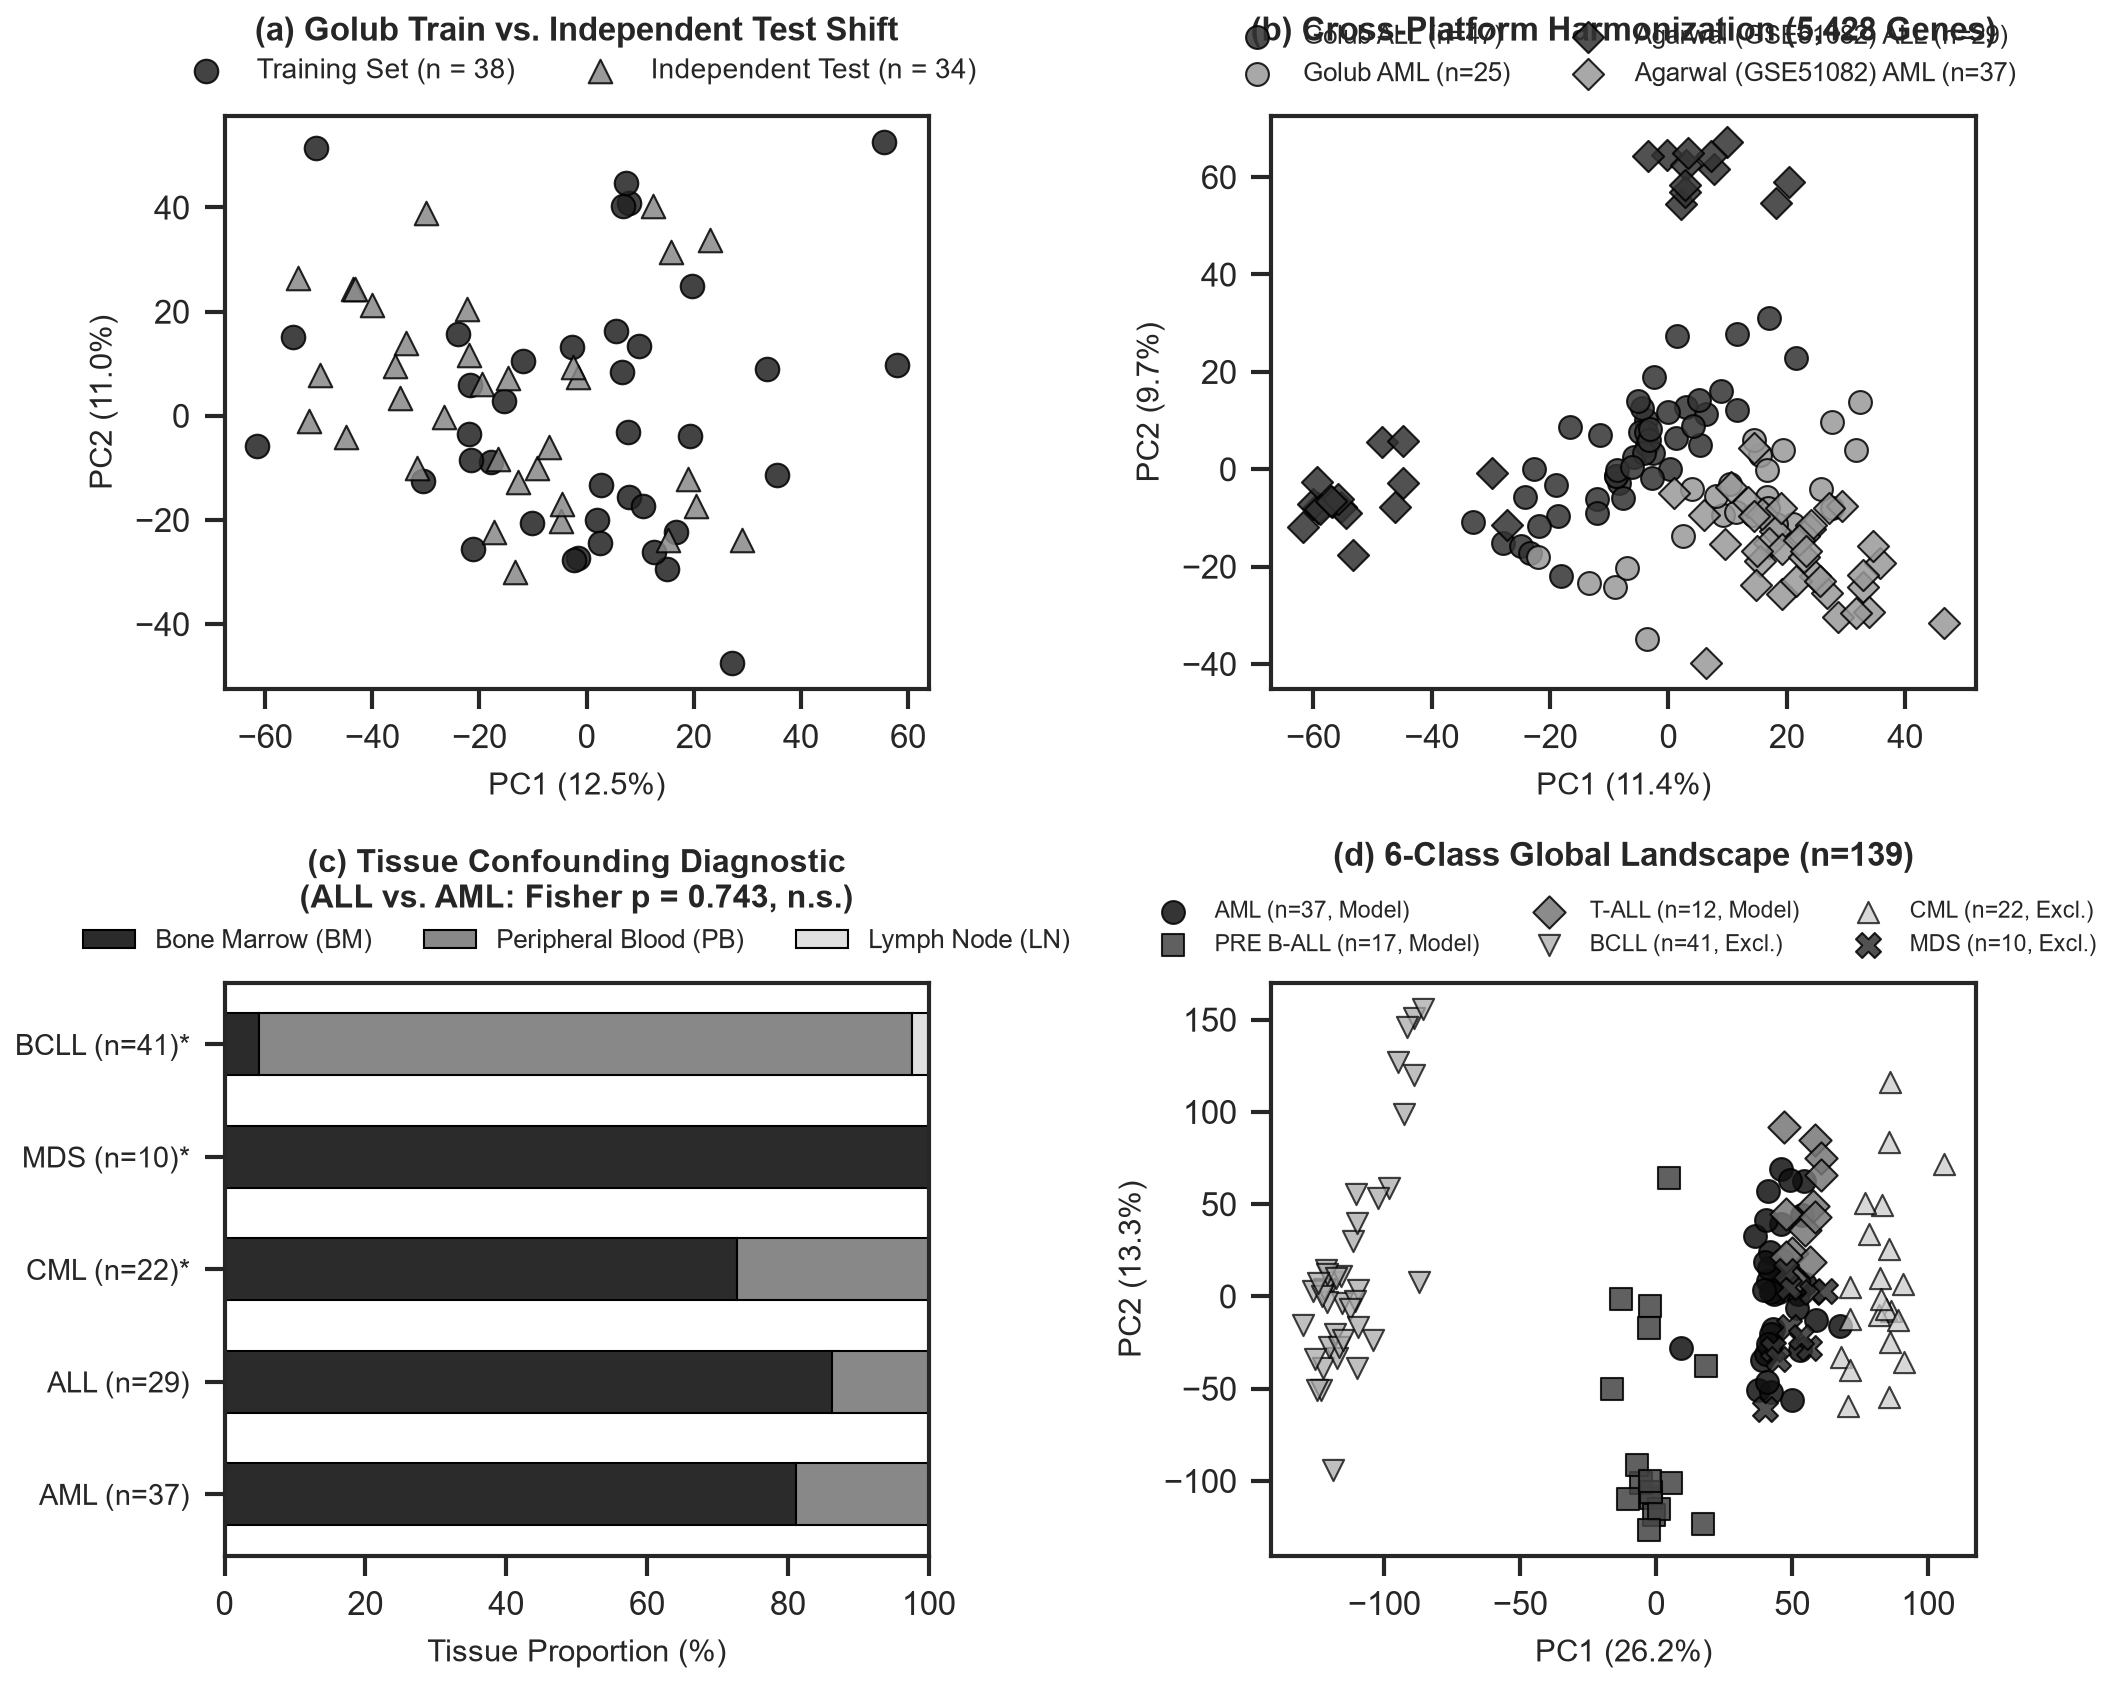
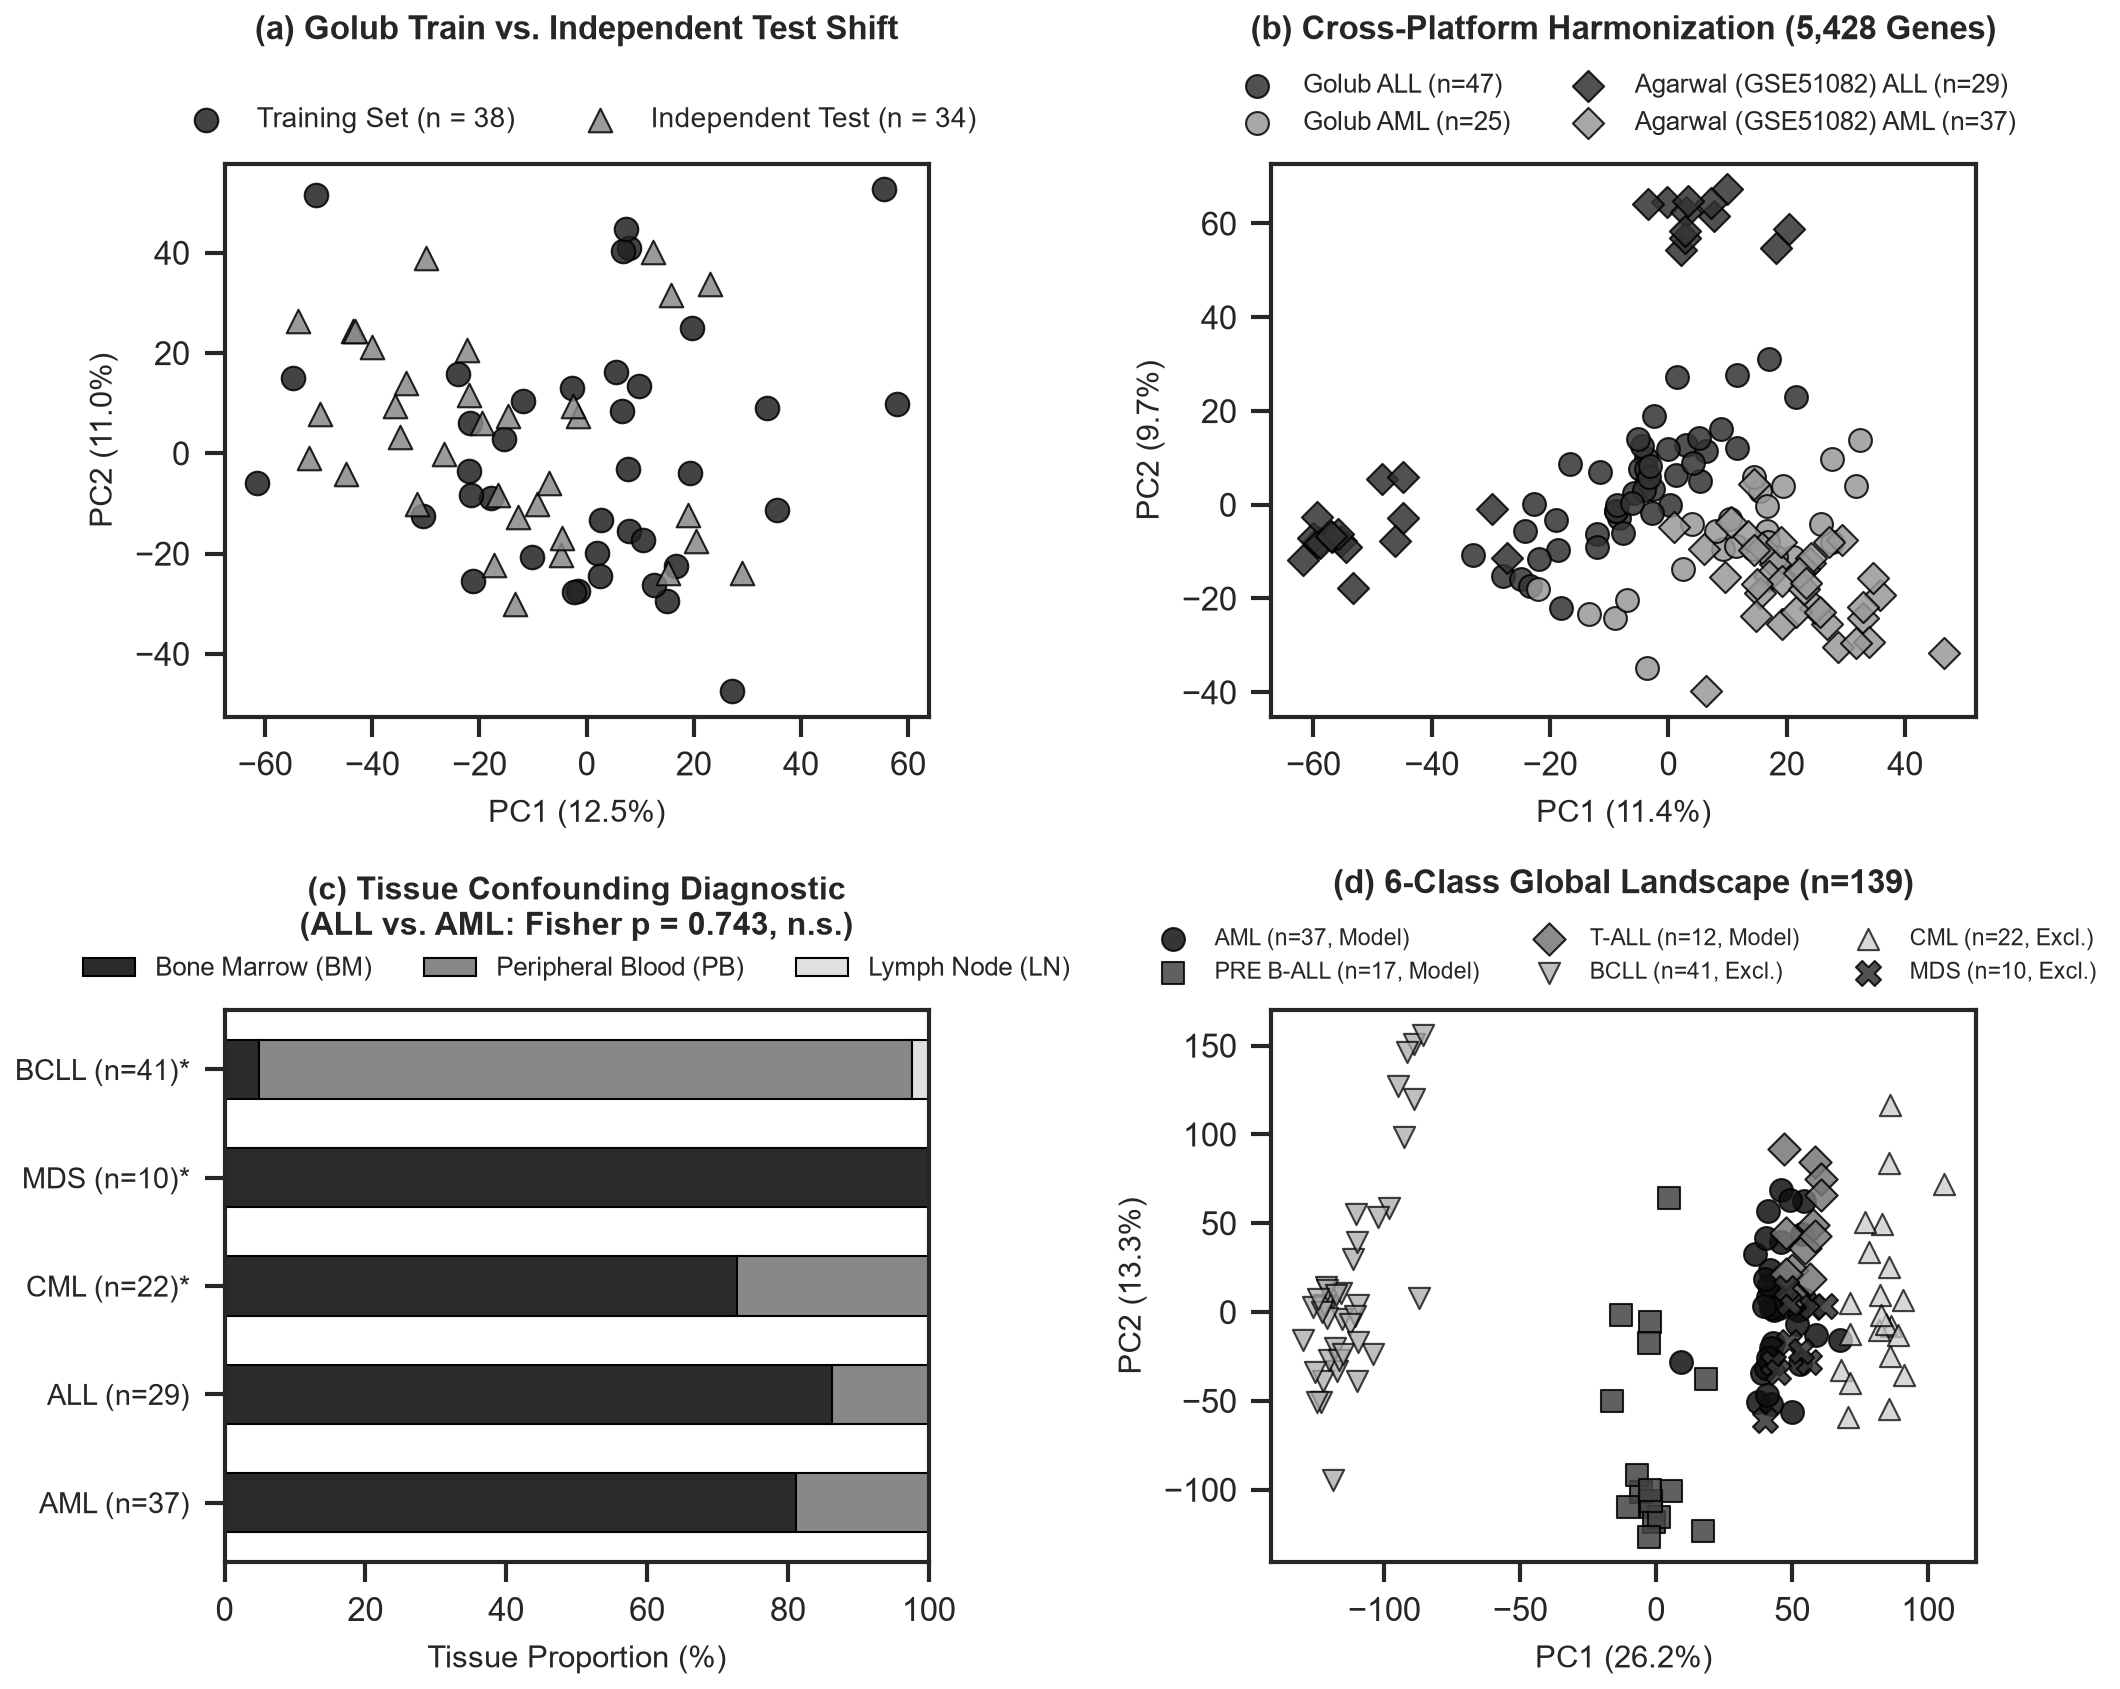
fix: fixed legend and subtitle overlapping in figure 4 - b

diff --git a/src/visualization/diagnostics.py b/src/visualization/diagnostics.py
@@ -80,7 +80,7 @@ def render_train_test_shift(
         edgecolor="black",
         linewidth=0.5,
     )
-    ax.set_title("(a) Golub Train vs. Independent Test Shift", fontweight="bold", fontsize=8, pad=18)
+    ax.set_title("(a) Golub Train vs. Independent Test Shift", fontweight="bold", fontsize=8, pad=30)
     ax.set_xlabel(f"PC1 ({pc1_var:.1f}%)", fontsize=7.5)
     ax.set_ylabel(f"PC2 ({pc2_var:.1f}%)", fontsize=7.5)
     ax.legend(
@@ -182,7 +182,7 @@ def render_cross_platform_pca(
     )
 
     shared_genes_count = X_p_raw.shape[1]
-    ax.set_title(f"(b) Cross-Platform Harmonization ({shared_genes_count:,} Genes)", fontweight="bold", fontsize=8, pad=18)
+    ax.set_title(f"(b) Cross-Platform Harmonization ({shared_genes_count:,} Genes)", fontweight="bold", fontsize=8, pad=30)
     ax.set_xlabel(f"PC1 ({pc1_var:.1f}%)", fontsize=7.5)
     ax.set_ylabel(f"PC2 ({pc2_var:.1f}%)", fontsize=7.5)
     ax.legend(
